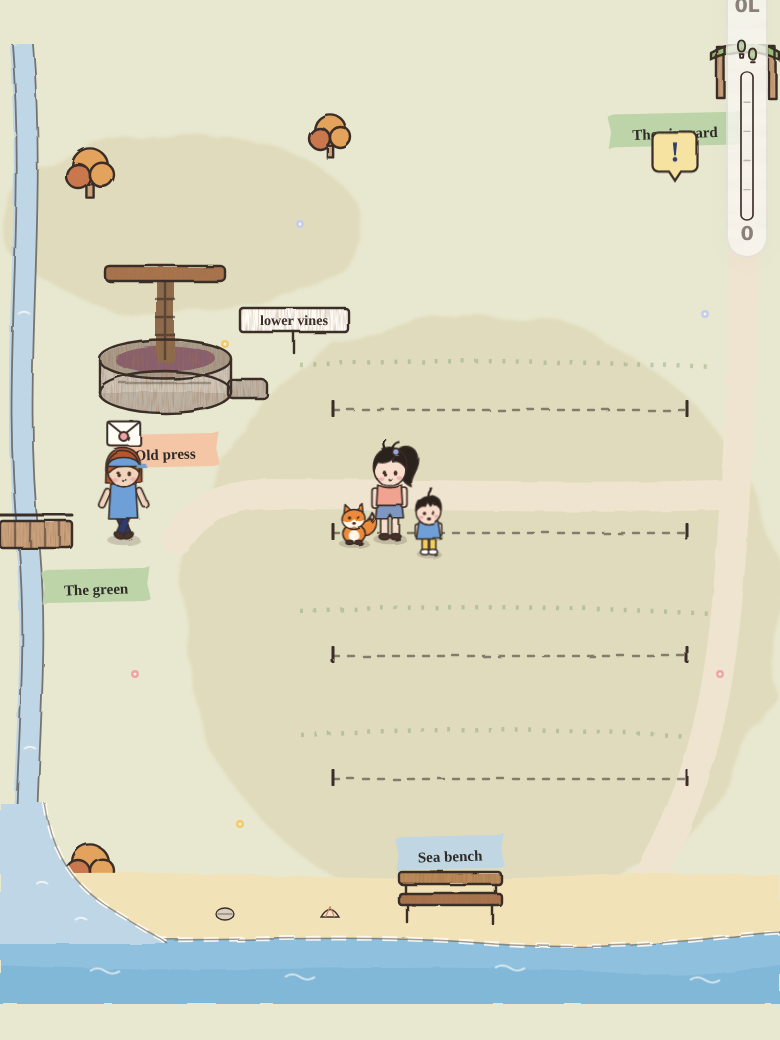
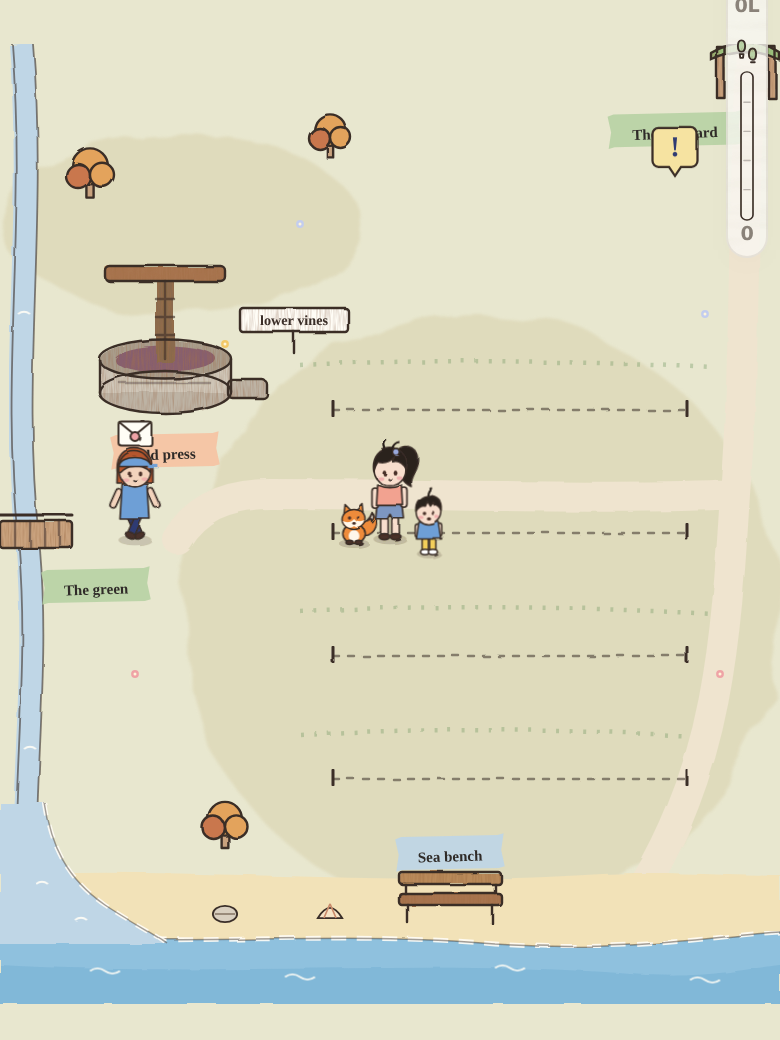
Beach clams and mussels are the kitchen's own, for clams with garlic and lemon and stuffed mussels
Claude-Session: https://claude.ai/code/session_017gYbhpw6TbdTF5ufLgYzyp

diff --git a/maple-village/src/game/kitchen.js b/maple-village/src/game/kitchen.js
@@ -387,10 +387,10 @@ export const SOURCE = {
   farmcheese: "your farm's cheese", halloumi: "your farm's cheese", bluecheese: "your farm's cheese", cheddar: "your farm's cheese",
   apple: "the orchard", pear: "the orchard", lemon: "Ma Ma's lemon tree or the Friday fish van", fish: "the market or fishing",
   sardine: "the sea or bay", mackerel: "the sea or bay, daytime", squid: "the sea, at night", octopus: "the sea, on rainy days", seabream: "the sea or bay",
-  trout: "the river, daytime", crayfish: "the lake", shrimp: "the sea, at dawn", anchovy: "the sea or bay", clams: "the Friday fish van at the bay",
+  trout: "the river, daytime", crayfish: "the lake", shrimp: "the sea, at dawn", anchovy: "the sea or bay", clams: "the Friday fish van at the bay, or the beach along the bottom of the village",
   wildgarlic: "the woods in spring", mushroom: "the woods in autumn", chestnut: "the woods in winter",
   oliveoil: "your olive mill (or Ronda)", anchovy_salt: "your drying loft", pesto: "your drying loft (or Cinque Terre)", pinenuts: "the market, once you've been to Cinque Terre",
   almond: "Ronda's market", sevilla: "Ronda's market", jamon: "Ronda's market", payoyo: "Ronda's market", membrillo: "Ronda's market",
   yuzu: "Kyoto's market", miso: "Kyoto's market", tofu: "Kyoto's market", mochi: "Kyoto's market",
   tangerine: "Jeju (or your own tangerine tree)", hallabong: "Jeju's market", omija: "Jeju's market", blackpork: "Jeju's market", abalone: "Jeju's divers' house",
-  goldensyrup: "Bellbird Valley's general store", wattleseed: "Bellbird Valley's general store", scallop: "the co-op at Fisher's Harbour (the Coast Road)", lobster: "Nan Storr's fish market (Saltwick Harbour)", crab_brown: "Nan Storr's fish market (Saltwick Harbour)", onion: "Nan Storr's fish market (Saltwick Harbour)", seasalt: "Nan Storr's fish market (Saltwick Harbour)", dulse: "Nan Storr's fish market (Saltwick Harbour)", mussels: "Rosa's mussel co-op (Portovenere)", chestnutflour: "the bar on the quay (Portovenere)", capers: "the bar on the quay (Portovenere)", fennelseed: "the bar on the quay (Portovenere)", seabuckthorn: "Bryn's farm tearoom (Puffin Isle)", samphire: "Bryn's farm tearoom (Puffin Isle)", pi_honey: "Bryn's farm tearoom (Puffin Isle)", ba_vanilla: "Komang's market (Bali)", lemongrass: "Komang's market (Bali)", kaffir: "Komang's market (Bali)", blackrice: "Komang's market (Bali)", salak: "Komang's market (Bali)", hk_milk: "Kumiko's farm café (Hokkaido)", hk_melon: "Kumiko's farm café (Hokkaido)", kingcrab: "Haruko's market hall (Hokkaido)", unikura: "Haruko's market hall (Hokkaido)", kombu: "Haruko's market hall (Hokkaido)", flordesal: "the salt works shop (Formentera)", peixsec: "the chiringuito (Formentera)", fm_fig: "Margalida's bakery (Formentera)", fm_cheese: "Margalida's bakery (Formentera)", macadamia: "the cracking shed at Nutwood Farm (the Tablelands)", fingerlime: "the packing shed at Nutwood Farm (the Tablelands)", honey_sun: "the honey house at Sunflower Hill (the Lavender Hills)", honey_cream: "your hives (cream a jar at the honey hut)", euchoney: "the farm shed at Bellbird Valley", coconut: "Hana's deli shelf at the market", honey_lav: "your hives at Wildflower Farm (with the lavender out)", chz_fresh: "Elena's cheese cave (fresh goat's cheese)", raspberry: "your garden (canes from the market, once you've been to Bellbird Valley) or the berry farm"};
+  goldensyrup: "Bellbird Valley's general store", wattleseed: "Bellbird Valley's general store", scallop: "the co-op at Fisher's Harbour (the Coast Road)", lobster: "Nan Storr's fish market (Saltwick Harbour)", crab_brown: "Nan Storr's fish market (Saltwick Harbour)", onion: "Nan Storr's fish market (Saltwick Harbour)", seasalt: "Nan Storr's fish market (Saltwick Harbour)", dulse: "Nan Storr's fish market (Saltwick Harbour)", mussels: "Rosa's mussel co-op (Portovenere), or the beach along the bottom of the village", chestnutflour: "the bar on the quay (Portovenere)", capers: "the bar on the quay (Portovenere)", fennelseed: "the bar on the quay (Portovenere)", seabuckthorn: "Bryn's farm tearoom (Puffin Isle)", samphire: "Bryn's farm tearoom (Puffin Isle)", pi_honey: "Bryn's farm tearoom (Puffin Isle)", ba_vanilla: "Komang's market (Bali)", lemongrass: "Komang's market (Bali)", kaffir: "Komang's market (Bali)", blackrice: "Komang's market (Bali)", salak: "Komang's market (Bali)", hk_milk: "Kumiko's farm café (Hokkaido)", hk_melon: "Kumiko's farm café (Hokkaido)", kingcrab: "Haruko's market hall (Hokkaido)", unikura: "Haruko's market hall (Hokkaido)", kombu: "Haruko's market hall (Hokkaido)", flordesal: "the salt works shop (Formentera)", peixsec: "the chiringuito (Formentera)", fm_fig: "Margalida's bakery (Formentera)", fm_cheese: "Margalida's bakery (Formentera)", macadamia: "the cracking shed at Nutwood Farm (the Tablelands)", fingerlime: "the packing shed at Nutwood Farm (the Tablelands)", honey_sun: "the honey house at Sunflower Hill (the Lavender Hills)", honey_cream: "your hives (cream a jar at the honey hut)", euchoney: "the farm shed at Bellbird Valley", coconut: "Hana's deli shelf at the market", honey_lav: "your hives at Wildflower Farm (with the lavender out)", chz_fresh: "Elena's cheese cave (fresh goat's cheese)", raspberry: "your garden (canes from the market, once you've been to Bellbird Valley) or the berry farm"};

diff --git a/maple-village/src/game/south.js b/maple-village/src/game/south.js
@@ -151,7 +151,7 @@ export const CHIP_MENU = {
   chips: {n: "A cone of chips", price: 4, line: "A paper cone of chips, too hot to hold. You blow on every one and burn your mouth anyway."},
   peas: {n: "Mushy peas", price: 2, line: "A little pot of mushy peas, bright green and very, very hot."}
 };
-export const CHIP_BUYS = ["fish", "mackerel", "sardine", "anchovy", "seabream", "mullet", "squid", "b_clam", "b_mussel"], CHIP_CAP = 6;
+export const CHIP_BUYS = ["fish", "mackerel", "sardine", "anchovy", "seabream", "mullet", "squid", "clams", "mussels"], CHIP_CAP = 6;
 const chipSell = id => id === "fish" ? 3 : ((ITEMS[id] || {}).sell || 0);
 export function eatChips(F, k, withEvan){
   const m = CHIP_MENU[k]; if (!m) return null;
@@ -188,14 +188,14 @@ export function beachFinds(F, scene, day){
   const xs = BEACH_SPOTS[scene]; if (!xs) return [];
   const got = (((F.south || {}).beach || {})[day]) || [];
   return some(xs.map(String), 2, day + ":beach:" + scene).map(x => { const k = scene + ":" + x, h = hsh(day + k) % 20;
-    return {k, x: +x, y: BEACH_Y[scene], id: h === 0 ? "b_conch" : h < 9 ? "b_shell" : h < 15 ? "b_clam" : "b_mussel"}; }).filter(f => !got.includes(f.k));
+    return {k, x: +x, y: BEACH_Y[scene], id: h === 0 ? "b_conch" : h < 9 ? "b_shell" : h < 15 ? "clams" : "mussels"}; }).filter(f => !got.includes(f.k));
 }
 export function pickBeach(F, scene, k, day){
   const f = beachFinds(F, scene, day).find(x => x.k === k); if (!f) return null;
   const s = southState(F); s.beach = s.beach && s.beach[day] ? s.beach : {[day]: []}; s.beach[day].push(k);
-  F.inv = F.inv || {}; F.inv[f.id] = (F.inv[f.id] || 0) + 1;
-  const line = {b_shell: "A seashell, ribbed and pink inside. Into your pocket it goes.", b_conch: "A spiral conch! You almost never find these here. You hold it to your ear: the sea.", b_clam: "You dig your fingers into the wet sand and come up with a handful of clams.", b_mussel: "A cluster of mussels on a rock, blue-black and shining. You twist a few off."}[f.id];
-  return {id: f.id, line};
+  const n = f.id === "clams" ? 2 : 1; F.inv = F.inv || {}; F.inv[f.id] = (F.inv[f.id] || 0) + n;
+  const line = {b_shell: "A seashell, ribbed and pink inside. Into your pocket it goes.", b_conch: "A spiral conch! You almost never find these here. You hold it to your ear: the sea.", clams: "You dig your fingers into the wet sand and come up with a couple of clams. Four make clams with garlic and lemon at the kitchen.", mussels: "A cluster of mussels on a rock, blue-black and shining. You twist off a bagful: two make Rosa's stuffed mussels at the kitchen."}[f.id];
+  return {id: f.id, n, line};
 }
 
 /* ---------- the paddock panel ---------- */

diff --git a/maple-village/src/data/carboot.js b/maple-village/src/data/carboot.js
@@ -18,11 +18,11 @@ export const CARBOOT = {
 Object.entries(CARBOOT).forEach(([id, c]) => { ITEMS[id] = {n: c.n, kind: "keepsake", price: c.price, art: c.art, line: c.line}; });
 
 // round 278 (Mel: "random seashells, clams and mussels along the beach that I can pick"): what washes up on the
-// bottom row's beaches. Shells and the odd conch are keepsakes; Dot buys the clams and mussels.
+// bottom row's beaches. Shells and the odd conch are keepsakes; clams and mussels go to the kitchen, or to Dot.
 export const BEACH = {
   b_shell: {n: "Seashell", kind: "keepsake", price: 0, art: ["disc", "#F6E3C6", "#E9B8A0"], line: "A ribbed seashell, pink inside, from the beach at the bottom of the village."},
   b_conch: {n: "Spiral conch", kind: "keepsake", price: 0, art: ["disc", "#F3D9B0", "#C98A4A"], line: "A spiral conch, rare on this coast. Hold it to your ear and there's the sea."},
-  b_clam: {n: "Clams", kind: "ingredient", price: 0, sell: 2, art: ["disc", "#D9CFC0", "#8A7A6A"], what: "dug from the sand: Dot at the fish and chip hatch will buy them"},
-  b_mussel: {n: "Mussels", kind: "ingredient", price: 0, sell: 2, art: ["disc", "#3A3A5A", "#7A7AA0"], what: "off the rocks at the beach: Dot at the fish and chip hatch will buy them"}
 };
+// (clams and mussels on the beach are the kitchen's own: "clams" for clams with garlic and lemon, "mussels" for
+// stuffed mussels; Mel pointed out the dishes were already there)
 Object.entries(BEACH).forEach(([id, c]) => { ITEMS[id] = {...c}; });

diff --git a/maple-village/src/art/southshore.js b/maple-village/src/art/southshore.js
@@ -29,7 +29,7 @@ export function carBootArt(){
 export function beachArt(finds){
   const pic = {b_shell: `<path d="M-6 2 Q0 -8 6 2z" style="fill:#F6E3C6"/><path d="M-3 2 L0 -5 M3 2 L0 -5" style="stroke:#C98A6A" stroke-width=".8"/>`,
     b_conch: `<path d="M-6 3 Q-6 -6 2 -6 Q8 -4 5 3z" style="fill:#F3D9B0"/><path d="M-3 0 q3 -4 6 -1" fill="none" style="stroke:#C98A4A" stroke-width=".9"/>`,
-    b_clam: `<ellipse cx="0" cy="0" rx="6" ry="4" style="fill:#D9CFC0"/><path d="M-5 0 h10" style="stroke:#8A7A6A" stroke-width=".8"/>`,
-    b_mussel: `<ellipse cx="-2" cy="0" rx="6" ry="3" style="fill:#3A3A5A" transform="rotate(-20)"/><ellipse cx="4" cy="1" rx="5" ry="2.6" style="fill:#4A4A6A" transform="rotate(15)"/>`};
+    clams: `<ellipse cx="0" cy="0" rx="6" ry="4" style="fill:#D9CFC0"/><path d="M-5 0 h10" style="stroke:#8A7A6A" stroke-width=".8"/>`,
+    mussels: `<ellipse cx="-2" cy="0" rx="6" ry="3" style="fill:#3A3A5A" transform="rotate(-20)"/><ellipse cx="4" cy="1" rx="5" ry="2.6" style="fill:#4A4A6A" transform="rotate(15)"/>`};
   return finds.map(f => `<g data-shell="${f.k}" aria-label="Something on the sand" transform="translate(${f.x} ${f.y}) scale(1.35)"><ellipse class="hov" cx="0" cy="2" rx="14" ry="7" style="fill:var(--butter)"/><g style="stroke:var(--line)" stroke-width=".9">${pic[f.id]}</g><circle cx="0" cy="0" r="14" fill="transparent"/></g>`).join("");
 }

diff --git a/maple-village/src/game/core.js b/maple-village/src/game/core.js
@@ -4397,7 +4397,7 @@ svg.addEventListener("click", ev => {
   // round 278: beachcombing on the bottom row
   const shl = ev.target.closest("[data-shell]");
   if (shl) { const k = shl.dataset.shell, f = SO.beachFinds(F, scene, dayKey()).find(x => x.k === k);
-    if (f) go(scene, f.x, f.y - 8, () => { const r = SO.pickBeach(F, scene, k, dayKey()); if (r) { sfx("pop"); flash(`+1 ${ITEMS[r.id].n.toLowerCase()}`); speak(r.line, 4500); if (evanHere() && !evanNight()) setTimeout(() => evanSays(pick(["can I hold it?", "a shell! for my collection", "it's got a crab in! no it hasn't"])), 1500); save(true); drawScene(); } });
+    if (f) go(scene, f.x, f.y - 8, () => { const r = SO.pickBeach(F, scene, k, dayKey()); if (r) { sfx("pop"); flash(`+${r.n} ${ITEMS[r.id].n.toLowerCase()}`); speak(r.line, 5500); if (evanHere() && !evanNight()) setTimeout(() => evanSays(pick(["can I hold it?", "a shell! for my collection", "it's got a crab in! no it hasn't"])), 1500); save(true); drawScene(); } });
     return; }
   // round 277: the allotments, each neighbour's plot and the swap crate; the gate back to the green
   if (scene === "allotment" && ev.target.closest("[data-exit]")) { go(scene, 260, 600, () => setScene("green", [120, 280])); return; }

diff --git a/maple-village/HANDOFF.md b/maple-village/HANDOFF.md
@@ -2796,3 +2796,4 @@ Mel: villagers' story chapters read as broken-up speech without context; thank-y
 ## Round 278: the river mouth on the lower vineyard, and beachcombing (Mel: "the same as how we did it for the bay, where it widens and enters the sea. Also random seashells, clams and mussels along the beach that I can pick")
 - art/lowervine.js `mouth`: the stream crosses the sand and fans out into a little river mouth into the sea (white dashed bank, like the foreshore's); a tree moved off it.
 - Beachcombing (south.js `BEACH_SPOTS`, `beachFinds`, `pickBeach`; art/southshore.js `beachArt`; `data-shell`): two finds a day on each bottom-row beach, in spots that change daily; seashells (keepsakes), the odd spiral conch (rare keepsake), clams and mussels (Dot buys them, added to `CHIP_BUYS`). Items in data/carboot.js `BEACH`. Picked ones are gone till tomorrow.
+- Fix (Mel: "I thought there were clams as part of the dish"): beach clams and mussels are the kitchen's own `clams` (clams with garlic and lemon, 4) and `mussels` (stuffed mussels, 2), not new items; a clam find gives two. The kitchen's "where to get it" hints now mention the beach. Dot still buys both.
